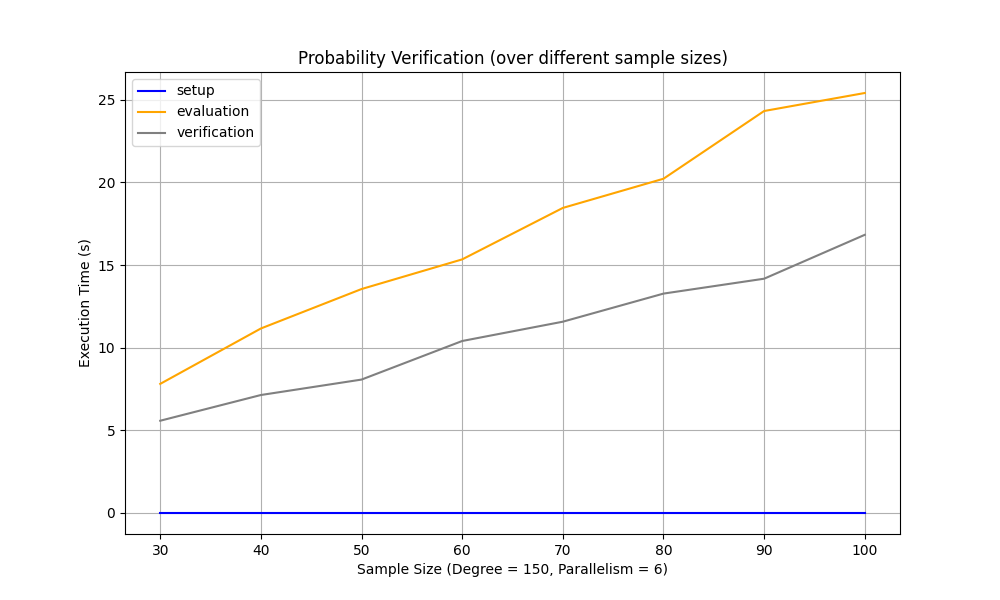
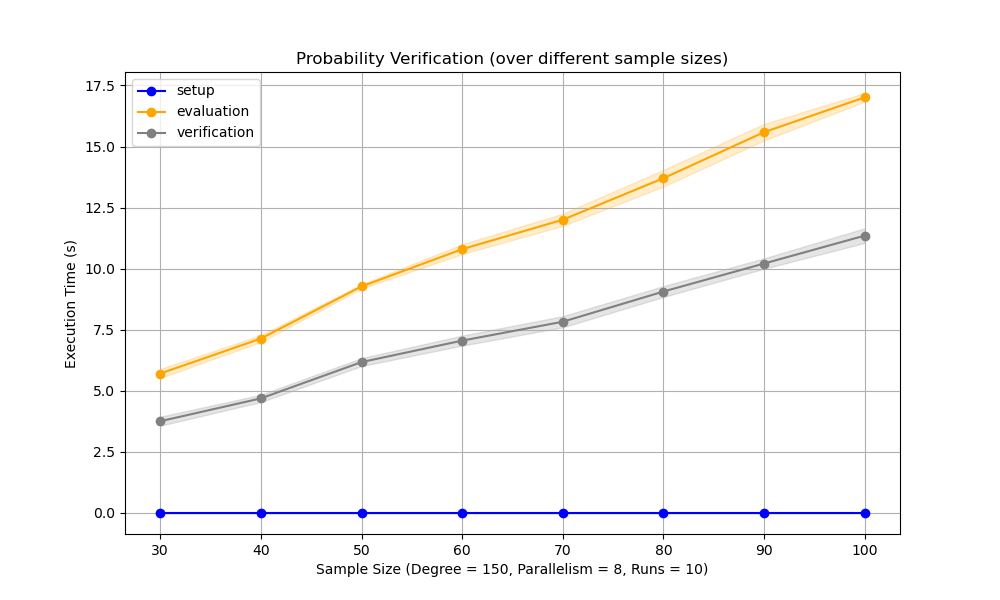
update plots

diff --git a/results/plot.py b/results/plot.py
@@ -8,10 +8,26 @@ experiments should be run on CSIE workstations
 """
 
 
-def plot_data(df, x_column, y_columns, title, xlabel, ylabel, colors):
+def plot_data(df, y_columns, title, xlabel, ylabel, colors):
     plt.figure(figsize=(10, 6))
     for y_column in y_columns:
-        plt.plot(df[x_column], df[y_column], label=y_column, color=colors[y_column])
+        x = df.index
+        y = df[y_column]["mean"]
+        dy = df[y_column]["std"]
+        plt.plot(
+            x,
+            y,
+            label=y_column,
+            color=colors[y_column],
+            marker="o",
+        )
+        plt.fill_between(
+            x,
+            y - dy,
+            y + dy,
+            alpha=0.2,
+            color=colors[y_column],
+        )
     plt.xlabel(xlabel)
     plt.ylabel(ylabel)
     plt.title(title)
@@ -19,13 +35,13 @@ def plot_data(df, x_column, y_columns, title, xlabel, ylabel, colors):
     plt.grid(True)
 
 
-df1 = pd.read_csv("poly_deg.csv")
+df1 = pd.read_csv("poly_deg.csv").groupby("degree").agg(["mean", "std"])
+print(df1)
 plot_data(
     df1,
-    "degree",
     ["setup", "evaluation", "verification"],
     "Probability Verification (over different polynomial degrees)",
-    "Polynomial Degree (Sample Size = 30, Parallelism = 6)",
+    "Polynomial Degree (Sample Size = 30, Parallelism = 8, Runs = 10)",
     "Execution Time (s)",
     {"setup": "blue", "evaluation": "orange", "verification": "gray"},
 )
@@ -33,12 +49,13 @@ plt.savefig("poly_deg.png")
 
 df2 = pd.read_csv("poly_sample.csv")
 df2["setup"] = 0  # Adding 'setup' as 0 for the second dataset
+df2 = df2.groupby("Sample Size").agg(["mean", "std"])
+print(df2)
 plot_data(
     df2,
-    "Sample Size",
     ["setup", "evaluation", "verification"],
     "Probability Verification (over different sample sizes)",
-    "Sample Size (Degree = 150, Parallelism = 6)",
+    "Sample Size (Degree = 150, Parallelism = 8, Runs = 10)",
     "Execution Time (s)",
     {"setup": "blue", "evaluation": "orange", "verification": "gray"},
 )
